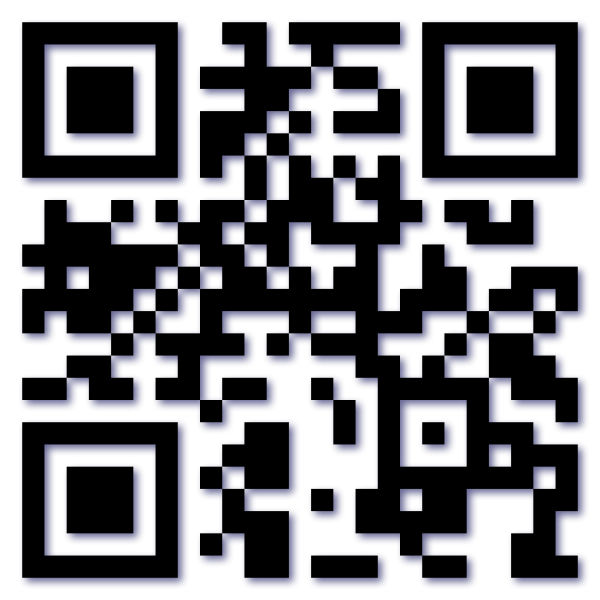
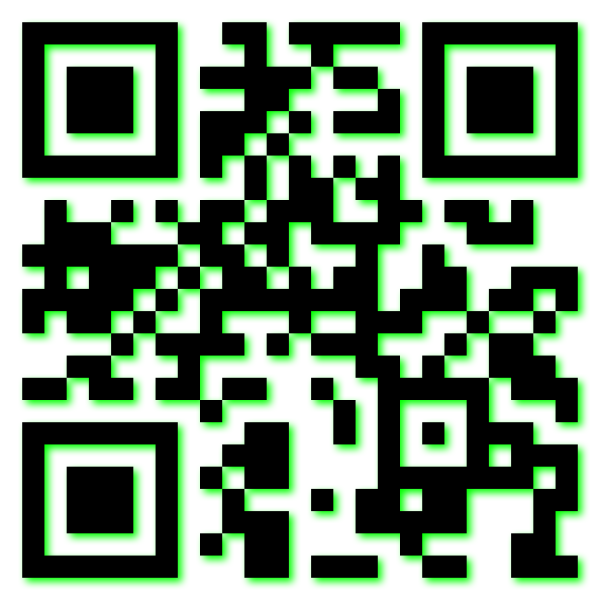
Add shadow to QRCodeViewUI

diff --git a/Tests/QRCodeTests/DocumentationImageTests.swift b/Tests/QRCodeTests/DocumentationImageTests.swift
@@ -646,31 +646,33 @@ final class DocumentationImageTests: XCTestCase {
 		try outputFolder.write(pngData, to: "watchos-qrcode.png")
 	}
 
-	func testDropShadowExample() throws {
-		let doc = try QRCode.Document(utf8String: "Drop shadow sample")
-		let shadow = QRCode.Shadow(
-			.dropShadow,
-			dx: 0.2,
-			dy: -0.2,
-			blur: 8,
-			color: CGColor.sRGBA(0, 0, 0.3, 0.6)
-		)
-		doc.design.style.shadow = shadow
-		let pngData = try doc.pngData(dimension: 600, dpi: 144)
-		try outputFolder.write(pngData, to: "qrcode-drop-shadow.png")
-	}
-
-	func testInnerShadowExample() throws {
-		let doc = try QRCode.Document(utf8String: "Inner shadow sample")
-		let shadow = QRCode.Shadow(
-			.innerShadow,
-			dx: 0.2,
-			dy: -0.2,
-			blur: 8,
-			color: CGColor.sRGBA(0.7, 0.7, 1.0, 1)
-		)
-		doc.design.style.shadow = shadow
-		let pngData = try doc.pngData(dimension: 600, dpi: 144)
-		try outputFolder.write(pngData, to: "qrcode-inner-shadow.png")
+	func testShadowsExample() throws {
+		do {
+			let doc = try QRCode.Document(utf8String: "Drop shadow sample")
+			let shadow = QRCode.Shadow(
+				.dropShadow,
+				dx: 0.2,
+				dy: -0.2,
+				blur: 8,
+				color: CGColor.sRGBA(0, 1, 0, 1)
+			)
+			doc.design.style.shadow = shadow
+			let pngData = try doc.pngData(dimension: 600, dpi: 144)
+			try outputFolder.write(pngData, to: "qrcode-drop-shadow.png")
+		}
+		
+		do {
+			let doc = try QRCode.Document(utf8String: "Inner shadow sample")
+			let shadow = QRCode.Shadow(
+				.innerShadow,
+				dx: 0.2,
+				dy: -0.2,
+				blur: 8,
+				color: CGColor.sRGBA(0, 1, 0, 1)
+			)
+			doc.design.style.shadow = shadow
+			let pngData = try doc.pngData(dimension: 600, dpi: 144)
+			try outputFolder.write(pngData, to: "qrcode-inner-shadow.png")
+		}
 	}
 }

diff --git a/Sources/QRCode/views/SwiftUI/QRCodeViewUI.swift b/Sources/QRCode/views/SwiftUI/QRCodeViewUI.swift
@@ -41,7 +41,8 @@ public struct QRCodeViewUI: View {
 		negatedOnPixelsOnly: Bool? = nil,
 		engine: (any QRCodeEngine)? = nil,
 		additionalQuietZonePixels: UInt = 0,
-		backgroundFractionalCornerRadius: CGFloat = 0
+		backgroundFractionalCornerRadius: CGFloat = 0,
+		shadow: QRCode.Shadow? = nil
 	) {
 		do {
 			self.content = try QRCode.Document(
@@ -70,6 +71,9 @@ public struct QRCodeViewUI: View {
 			if let negatedOnPixelsOnly = negatedOnPixelsOnly {
 				self.content.design.shape.negatedOnPixelsOnly = negatedOnPixelsOnly
 			}
+
+			self.content.design.style.shadow = shadow
+
 			self.isValid = true
 		}
 		catch {
@@ -166,7 +170,22 @@ struct QRCodeViewUI_Previews: PreviewProvider {
 					)
 				)
 			}
+			HStack {
+				QRCodeViewUI(
+					content: "This is a test",
+					pixelStyle: QRCode.PixelShape.Square(insetFraction: 0.1),
+					eyeStyle: QRCode.EyeShape.RoundedOuter(),
+					shadow: .init(.dropShadow, dx: 0.2, dy: -0.2, blur: 8, color: CGColor(red: 0, green: 1, blue: 0, alpha: 1))
+				)
+				QRCodeViewUI(
+					content: "This is a test",
+					pixelStyle: QRCode.PixelShape.Square(insetFraction: 0.1),
+					eyeStyle: QRCode.EyeShape.RoundedOuter(),
+					shadow: .init(.innerShadow, dx: 0.2, dy: -0.2, blur: 8, color: CGColor(red: 0, green: 1, blue: 0, alpha: 1))
+				)
+			}
 		}
+		.frame(height: 800)
 	}
 }
 

diff --git a/README.md b/README.md
@@ -600,7 +600,7 @@ let shadow = QRCode.Shadow(
    dx: 0.2,
    dy: -0.2,
    blur: 8,
-   color: CGColor.sRGBA(0, 0, 0.3, 0.6)
+   color: CGColor.sRGBA(0, 1, 0, 1)
 )
 doc.design.style.shadow = shadow
 let pngData = try doc.pngData(dimension: 600, dpi: 144)
@@ -627,7 +627,7 @@ let shadow = QRCode.Shadow(
    dx: 0.2,
    dy: -0.2,
    blur: 8,
-   color: CGColor.sRGBA(0.7, 0.7, 1.0, 1)
+   color: CGColor.sRGBA(0, 1, 0, 1)
 )
 doc.design.style.shadow = shadow
 let pngData = try doc.pngData(dimension: 600, dpi: 144)
